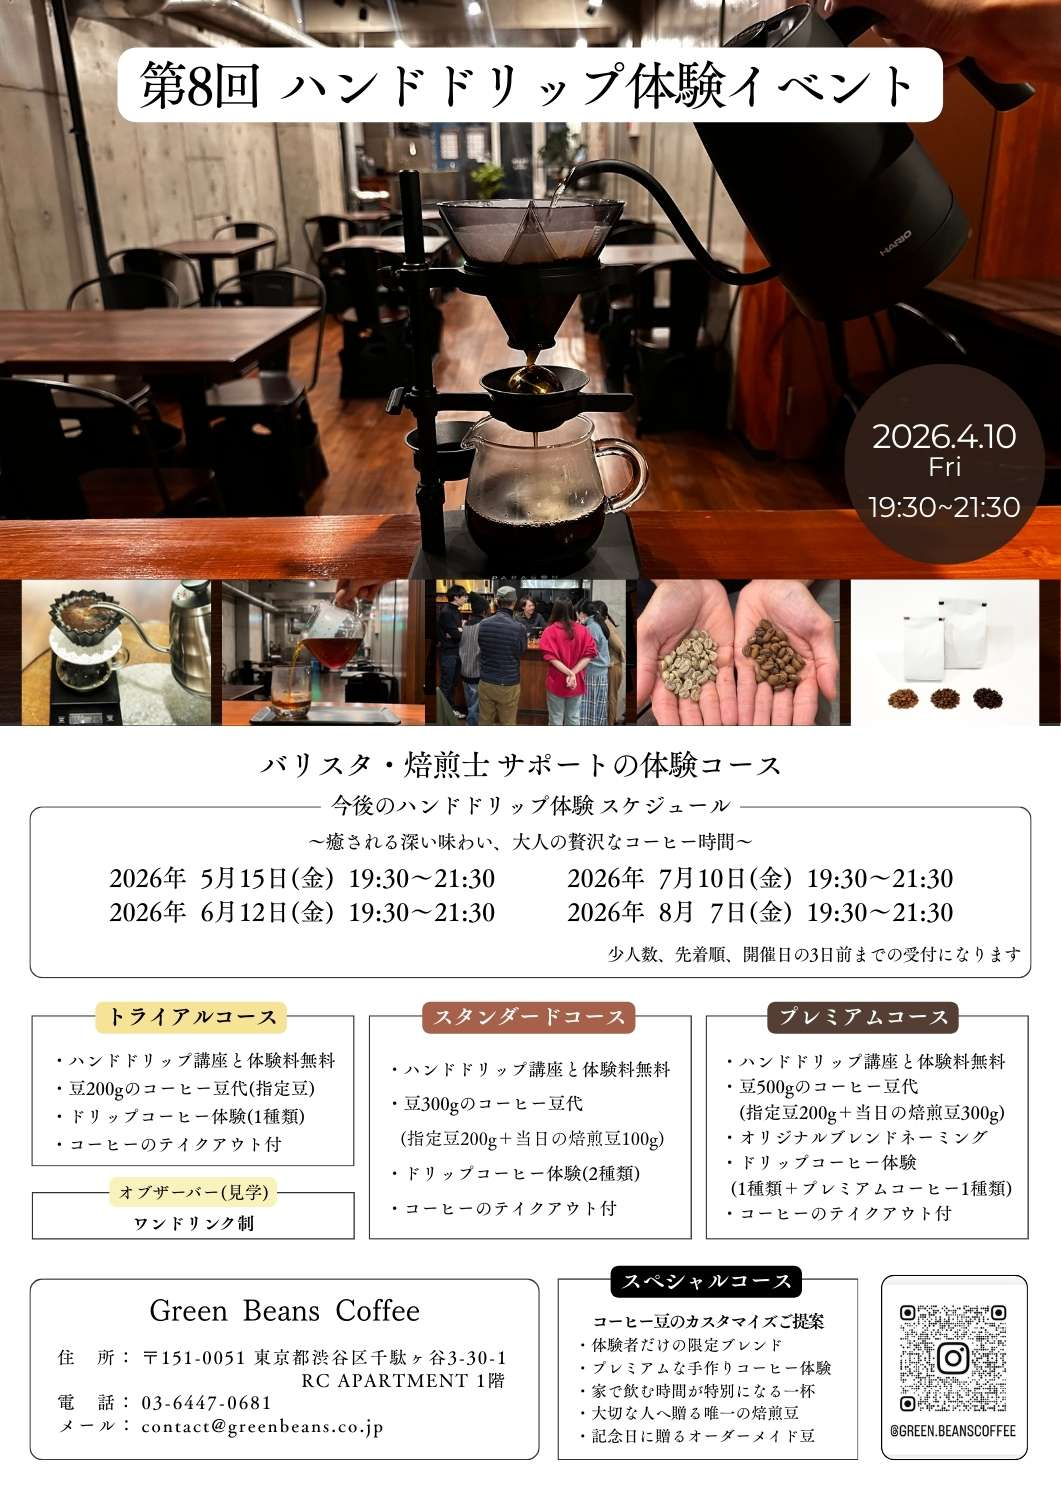
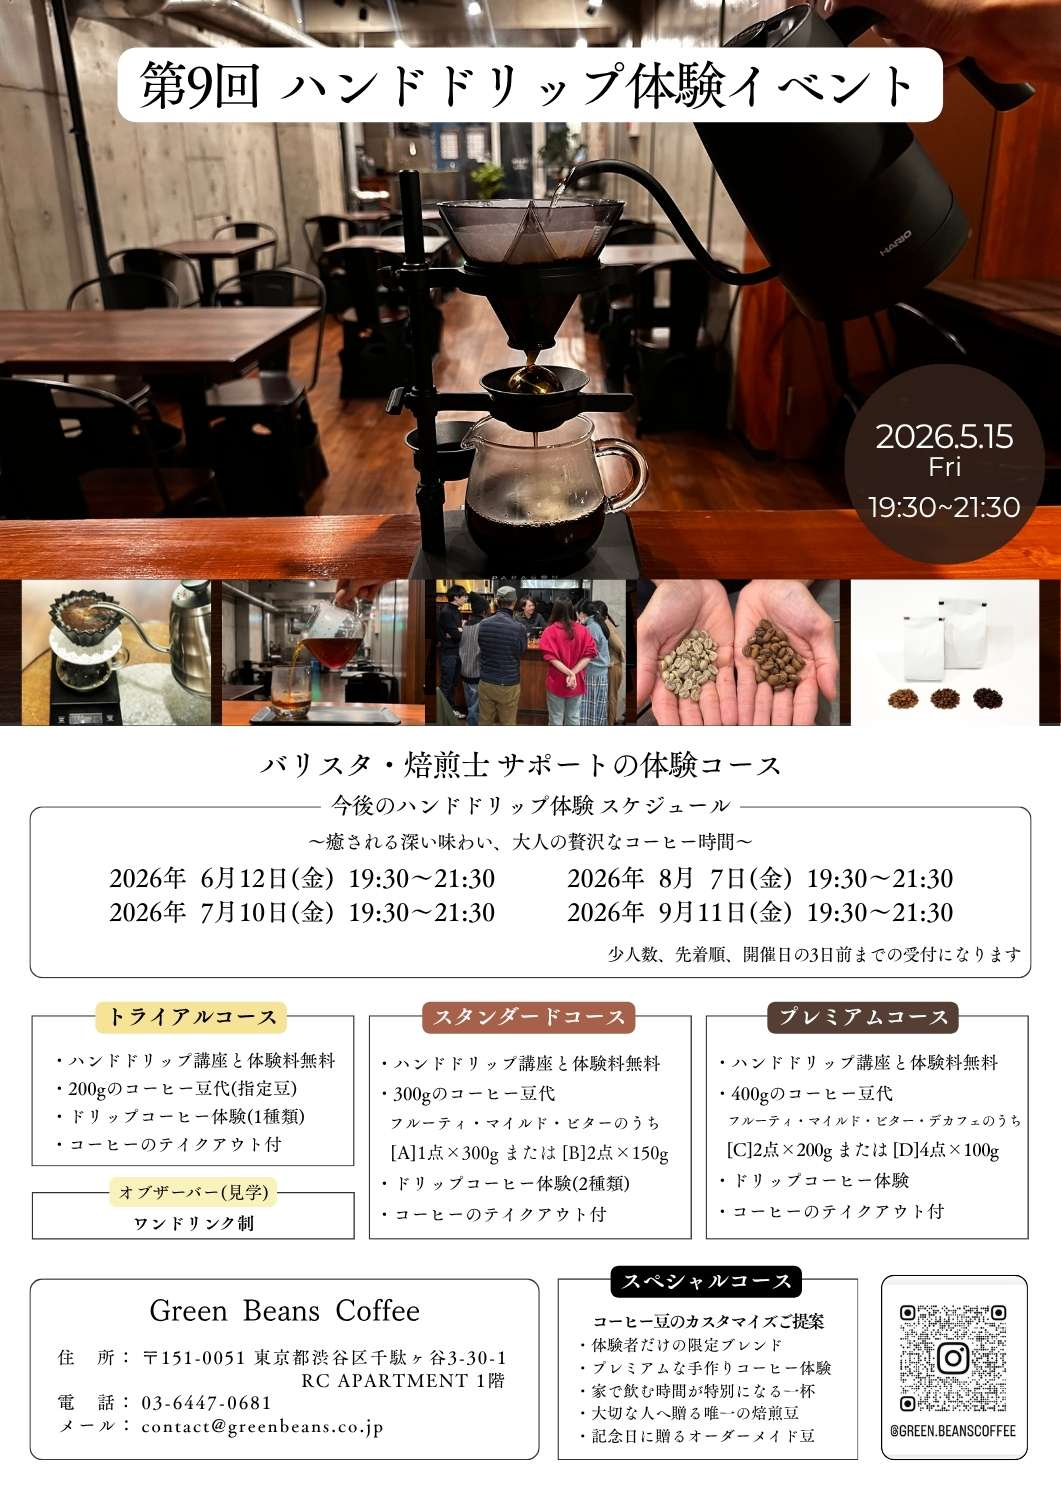
月次更新: 最終更新日・レビュー件数を4月14日付に更新、イベント画像更新

diff --git a/public/index.html b/public/index.html
@@ -287,7 +287,7 @@
       <!-- Last Updated Date -->
       <div class="mt-6 text-right">
         <p class="text-xs sm:text-sm text-secondary font-semibold">
-          最終更新日：2026年4月7日
+          最終更新日：2026年4月14日
         </p>
       </div>
     </div>
@@ -852,8 +852,8 @@
               <svg class="w-4 h-4 text-accent fill-current" viewBox="0 0 24 24">
                 <path d="M12 17.27L18.18 21l-1.64-7.03L22 9.24l-7.19-.61L12 2 9.19 8.63 2 9.24l5.46 4.73L5.82 21z"/>
               </svg>
-              <span>511件のレビュー</span>
-              <span class="opacity-70">(2026.4.7現在)</span>
+              <span>514件のレビュー</span>
+              <span class="opacity-70">(2026.4.14現在)</span>
             </p>
           </div>
         </div>
